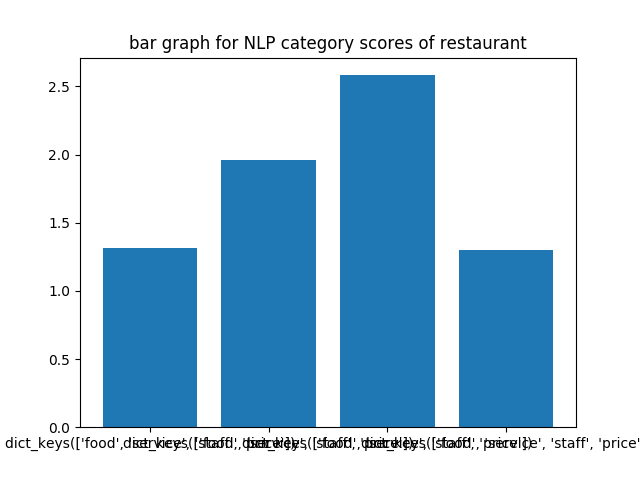
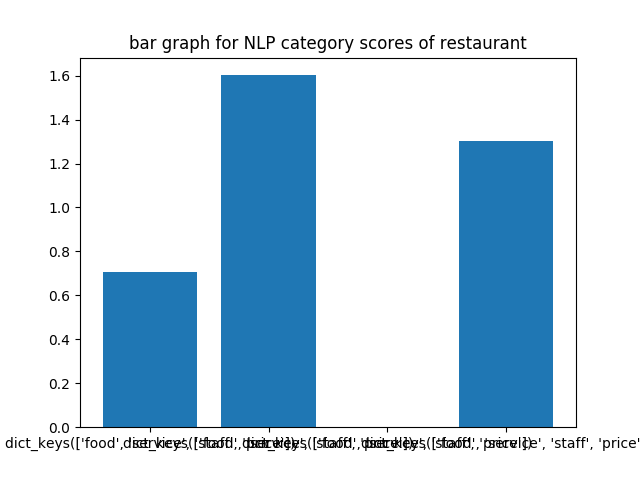
modifying graphs

diff --git a/dbms_visualization.py b/dbms_visualization.py
@@ -127,7 +127,7 @@ def visualize_yelp_competitor_score(res_id, yelp_df):
     # fetch competitors
     endpoint = 'https://api.yelp.com/v3/businesses/search'
     parameters = {'term': 'restaurants',
-                  'limit': 10,
+                  'limit': 6,
                   'radius': 40000,
                   'location': location,
                   'categories': categories
@@ -152,7 +152,7 @@ def visualize_yelp_competitor_score(res_id, yelp_df):
     # draw the graph with rest_id high lighted in bar graph
     names = []
     for key in competitors_rating_dict:
-        names.append(competitors[key])
+        names.append('food')
     values = list(competitors_rating_dict.values())
     colors = ['cyan'] * len(competitors_rating_dict.keys())
     colors[0] = 'blue'
@@ -196,11 +196,14 @@ def visualize_NLP_review_trends(res_id,category):
     res_review_trends = competitor_score_over_time(res_id,category)
     print("got to here")
     max_time_length = 0
-
+    
+    for cat in rest_id:
+        colors.append('cyan')
+    colors[0] = 'blue'
     for trend in res_review_trends.values():
         if max_time_length < len(trend):
             max_time_length = len(trend)
-
+    
     # plot the graph
     temp = np.arange(max_time_length)
     max_time_indices_new = np.linspace(temp.min(), temp.max(), 300)
@@ -208,7 +211,7 @@ def visualize_NLP_review_trends(res_id,category):
         buffer = np.zeros(max_time_length - len(trend))
         trend = np.append(buffer, trend)
         trend_smoothed = spline(temp, trend, max_time_indices_new)
-        plt.plot(max_time_indices_new, trend_smoothed, color=list(np.random.choice(range(256), size=3) / 255))
+        plt.plot(max_time_indices_new, trend_smoothed, color=colors)
 
     plt.xlabel('Time')
     plt.ylabel('Average NLP Review Rating')
